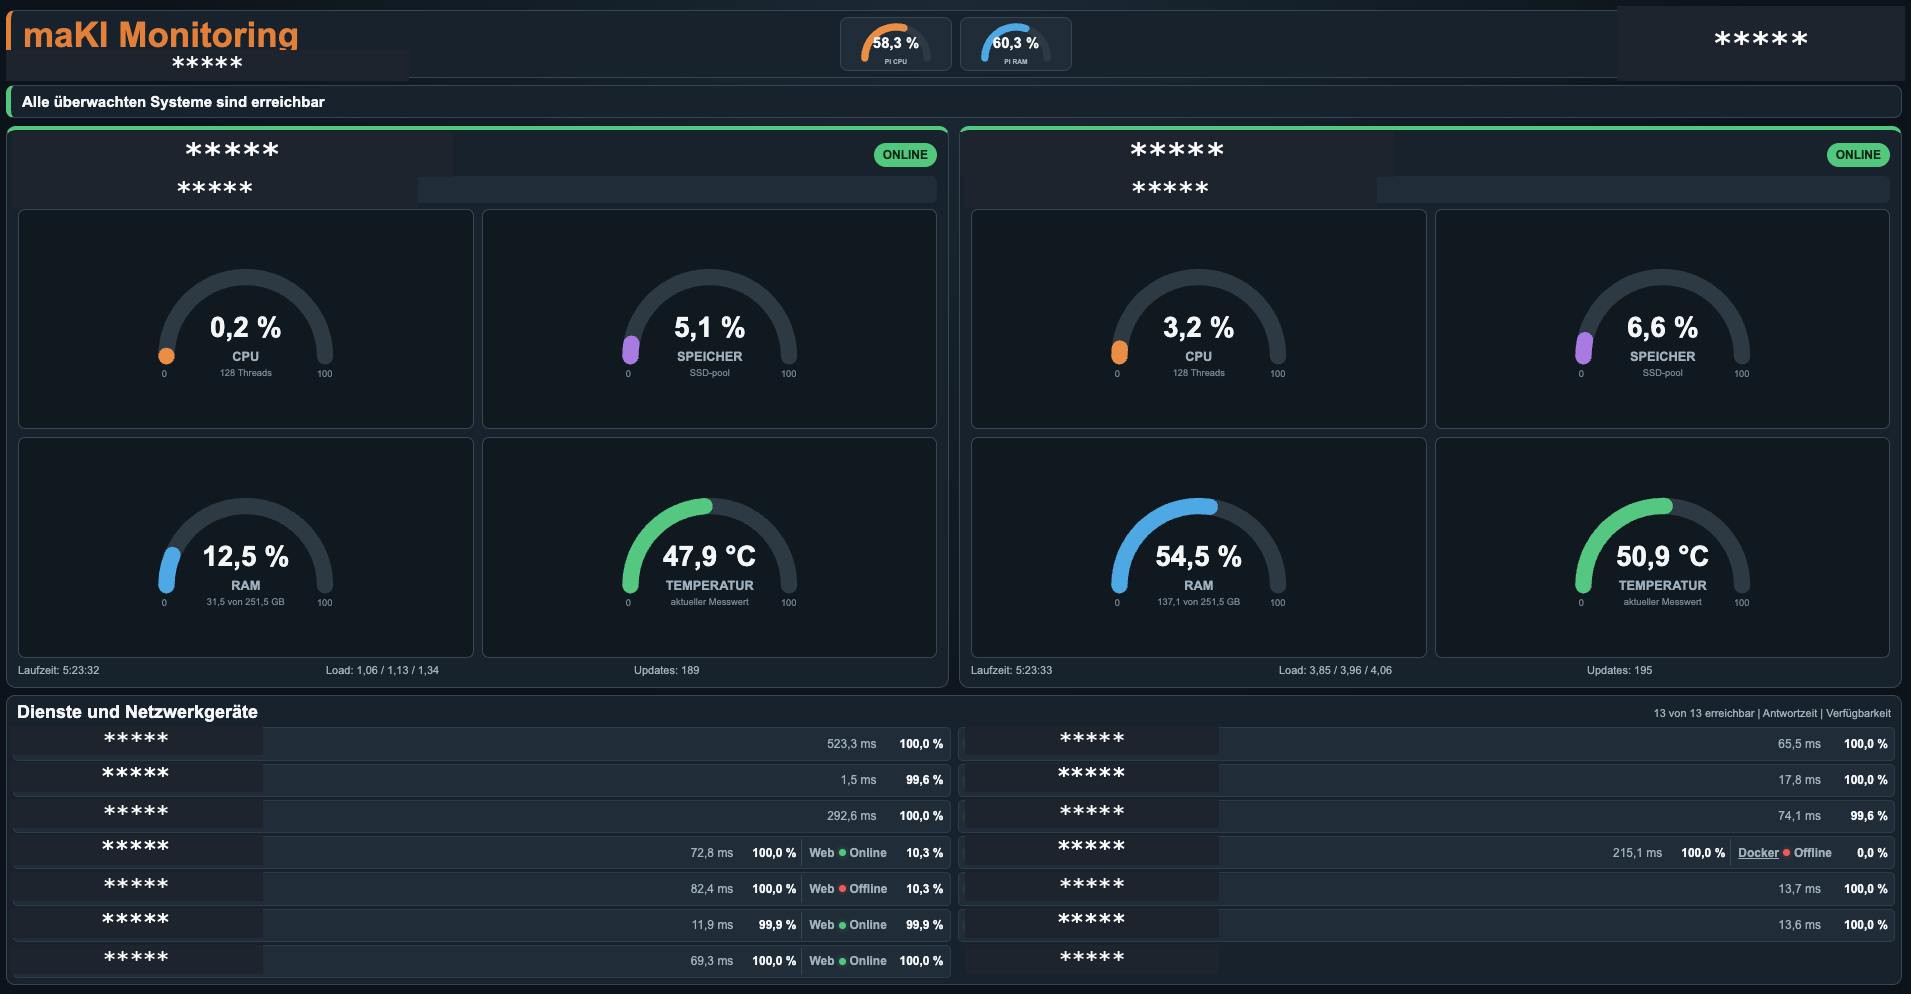
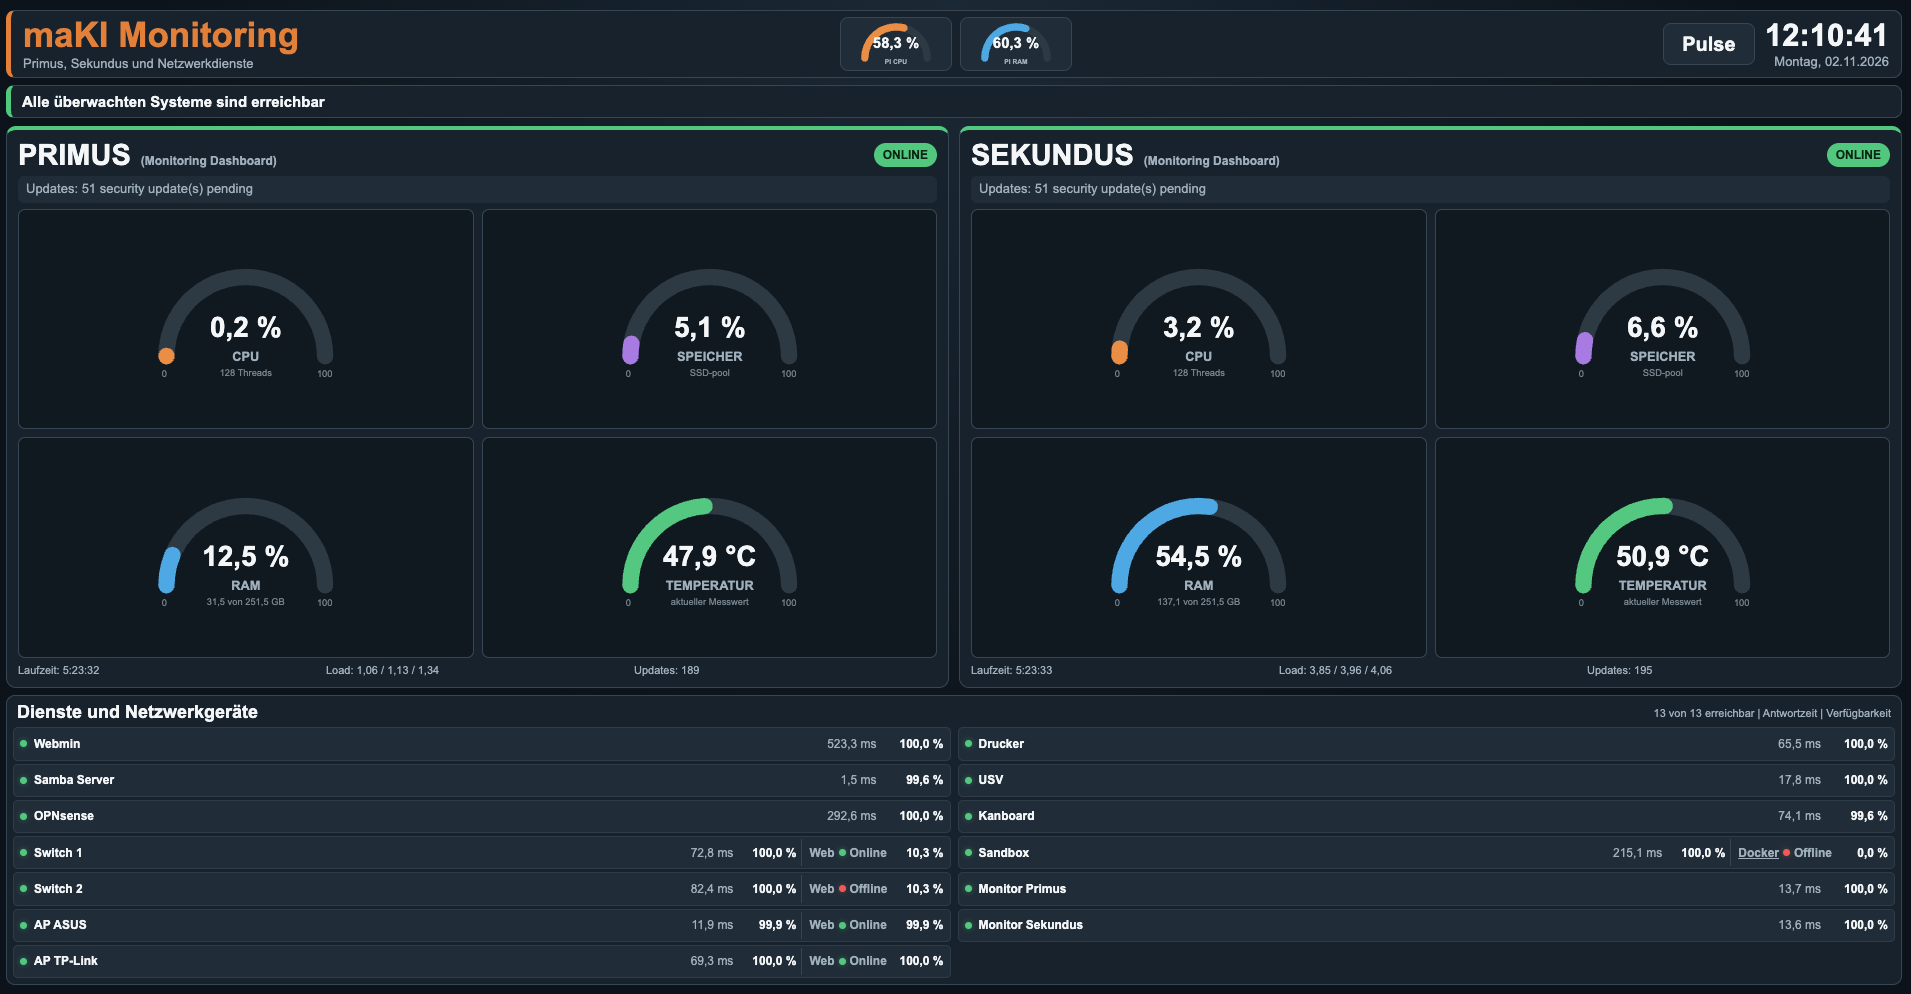
Freigegebene Projekte in ihrer Originalansicht zeigen

diff --git a/index.html b/index.html
@@ -270,10 +270,10 @@ body.n-dialog-open{overflow:hidden}
 <aside class="n-idcard" aria-label="Technisches Kurzprofil"><h2>Technisches Kurzprofil</h2><p>Hardware und Netzwerke<br>Linux und Serverbetrieb<br>Technische Dokumentation</p><div class="n-term"><span class="n-k">Debian-Homeserver</span><br>IP-Adresse: <span aria-label="nicht veröffentlicht">*****</span></div></aside></section>
 <section class="n-section" id="praxis" aria-labelledby="ph"><div class="n-wrap n-sh"><div><p class="n-eyebrow">Praxisphase</p><h2 id="ph">Ein Betrieb, drei Blöcke</h2></div><p>Ich suche einen Betrieb, in dem ich alle drei Praxisblöcke meiner Umschulung zum IT-Systemelektroniker absolvieren kann. Dazwischen liegen die vorgesehenen Urlaubszeiten.</p></div></section>
 <section class="n-section" id="projekte" aria-labelledby="pt"><div class="n-wrap"><div class="n-sh"><div><p class="n-eyebrow">Projektportfolio</p><h2 id="pt">Projekte aus Unterricht und Freizeit</h2></div></div><div class="n-projects"><article class="n-pj"><figure class="public-figure"><a class="public-photo" href="multitool.png" aria-label="Nachrichtenansicht des Multitools mit Themenfeed und Modulnavigation. Großansicht öffnen."><img src="multitool.png" alt="Nachrichtenansicht des Multitools mit Themenfeed und Modulnavigation."></a><figcaption>Nachrichtenansicht des Multitools mit Themenfeed und Modulnavigation. <a href="multitool.png">Großansicht</a></figcaption></figure><div class="n-pjb"><span class="n-tag">Projekt <span class="n-pjno">01</span></span><h3>Multitool</h3><p class="n-pj-sum">Informations- und Verwaltungsdashboard mit IT-Nachrichten, Wetter, Schulterminen, Bewerber-Lounge und Dokumentationsarchiv.</p><p class="n-tech">Debian · Proxmox · Docker Compose · Flask · Caddy</p></div></article>
-<article class="n-pj"><figure class="public-figure"><a class="public-photo" href="monitoring.png" aria-label="Monitoring-Dashboard mit zwei Serveransichten, Auslastung und Dienststatus. Interne Kennungen sind verdeckt. Großansicht öffnen."><img src="monitoring.png" alt="Monitoring-Dashboard mit zwei Serveransichten, Auslastung und Dienststatus. Interne Kennungen sind verdeckt."></a><figcaption>Monitoring-Dashboard mit zwei Serveransichten, Auslastung und Dienststatus. Interne Kennungen sind verdeckt. <a href="monitoring.png">Großansicht</a></figcaption></figure><div class="n-pjb"><span class="n-tag">Projekt <span class="n-pjno">02</span></span><h3>maKI Monitoring</h3><p class="n-pj-sum">Überwachung zweier Proxmox-Server und weiterer Netzwerkdienste – umgesetzt für einen Raspberry Pi 2 mit 1 GB RAM.</p><p class="n-tech">Raspberry Pi 2 · FastAPI · Nginx · SQLite · Docker Compose</p></div></article>
-<article class="n-pj"><figure class="public-figure"><a class="public-photo" href="usv.png" aria-label="Serverrack mit USV, Servereinschüben und Verkabelung. Geräte- und Netzwerketiketten sind verdeckt. Großansicht öffnen."><img src="usv.png" alt="Serverrack mit USV, Servereinschüben und Verkabelung. Geräte- und Netzwerketiketten sind verdeckt."></a><figcaption>Serverrack mit USV, Servereinschüben und Verkabelung. Geräte- und Netzwerketiketten sind verdeckt. <a href="usv.png">Großansicht</a></figcaption></figure><div class="n-pjb"><span class="n-tag">Projekt <span class="n-pjno">03</span></span><h3>USV im Serverprojekt</h3><p class="n-pj-sum">Mitarbeit im USV-Team: Stromversorgung absichern und kontrolliertes Herunterfahren der Server dokumentieren. Proxmox ist ergänzender Teamkontext.</p><p class="n-tech">CyberPower-USV · PowerPanel Business · Linux · SSH · Shell</p></div></article>
+<article class="n-pj"><figure class="public-figure"><a class="public-photo" href="monitoring.png" aria-label="Monitoring-Dashboard mit zwei Serveransichten, Auslastung und Dienststatus. Großansicht öffnen."><img src="monitoring.png" alt="Monitoring-Dashboard mit zwei Serveransichten, Auslastung und Dienststatus."></a><figcaption>Monitoring-Dashboard mit zwei Serveransichten, Auslastung und Dienststatus. <a href="monitoring.png">Großansicht</a></figcaption></figure><div class="n-pjb"><span class="n-tag">Projekt <span class="n-pjno">02</span></span><h3>maKI Monitoring</h3><p class="n-pj-sum">Überwachung zweier Proxmox-Server und weiterer Netzwerkdienste – umgesetzt für einen Raspberry Pi 2 mit 1 GB RAM.</p><p class="n-tech">Raspberry Pi 2 · FastAPI · Nginx · SQLite · Docker Compose</p></div></article>
+<article class="n-pj"><figure class="public-figure"><a class="public-photo" href="usv.png" aria-label="Serverrack mit USV, Servereinschüben und Verkabelung. Großansicht öffnen."><img src="usv.png" alt="Serverrack mit USV, Servereinschüben und Verkabelung."></a><figcaption>Serverrack mit USV, Servereinschüben und Verkabelung. <a href="usv.png">Großansicht</a></figcaption></figure><div class="n-pjb"><span class="n-tag">Projekt <span class="n-pjno">03</span></span><h3>USV im Serverprojekt</h3><p class="n-pj-sum">Mitarbeit im USV-Team: Stromversorgung absichern und kontrolliertes Herunterfahren der Server dokumentieren. Proxmox ist ergänzender Teamkontext.</p><p class="n-tech">CyberPower-USV · PowerPanel Business · Linux · SSH · Shell</p></div></article>
 <article class="n-pj"><figure class="public-figure"><a class="public-photo" href="tafelstream.png" aria-label="Tafelstream-Oberfläche mit leerem Warteraum und den verfügbaren Anzeigeoptionen. Großansicht öffnen."><img src="tafelstream.png" alt="Tafelstream-Oberfläche mit leerem Warteraum und den verfügbaren Anzeigeoptionen."></a><figcaption>Tafelstream-Oberfläche mit leerem Warteraum und den verfügbaren Anzeigeoptionen. <a href="tafelstream.png">Großansicht</a></figcaption></figure><div class="n-pjb"><span class="n-tag">Projekt <span class="n-pjno">04</span></span><h3>Tafelstream</h3><p class="n-pj-sum">Konzept für die Übertragung digitaler Tafelinhalte im lokalen Netzwerk: USB-Capture und FFmpeg über MediaMTX bis zur Wiedergabe im Browser.</p><p class="n-tech">Ubuntu Server · FFmpeg · MediaMTX · WebRTC · Docker Compose</p></div></article>
 <article class="n-pj"><figure class="public-figure"><a class="public-photo" href="datenrettung.png" aria-label="Vollständige Statusausgabe von GNU ddrescue während der sektorweisen Datenrettung. Großansicht öffnen."><img src="datenrettung.png" alt="Vollständige Statusausgabe von GNU ddrescue während der sektorweisen Datenrettung."></a><figcaption>Vollständige Statusausgabe von GNU ddrescue während der sektorweisen Datenrettung. <a href="datenrettung.png">Großansicht</a></figcaption></figure><div class="n-pjb"><span class="n-tag">Projekt <span class="n-pjno">05</span></span><h3>USB-Datenrettung unter Proxmox</h3><p class="n-pj-sum">Mit vorhandener Proxmox-Infrastruktur eine wiederaufnehmbare Linux-Rettungsumgebung aufgebaut und eingesetzt: sektorweise Sicherung einer beschädigten 2-TB-USB-Festplatte auf verschlüsselten Zielspeicher.</p><p class="n-tech">Proxmox VE · SystemRescue · GNU ddrescue · LUKS2 · Bash</p></div></article>
 <article class="n-pj"><figure class="public-figure"><a class="public-photo" href="homeserver.png" aria-label="Der Mini-PC in geschlossener und geöffneter Ansicht. Die Aufkleber der Speichermodule sind verdeckt. Großansicht öffnen."><img src="homeserver.png" alt="Der Mini-PC in geschlossener und geöffneter Ansicht. Die Aufkleber der Speichermodule sind verdeckt."></a><figcaption>Der Mini-PC in geschlossener und geöffneter Ansicht. Die Aufkleber der Speichermodule sind verdeckt. <a href="homeserver.png">Großansicht</a></figcaption></figure><div class="n-pjb"><span class="n-tag">Projekt <span class="n-pjno">06</span></span><h3>Debian-Homeserver</h3><p class="n-pj-sum">Privat beschäftige ich mich mit einem Debian-Server und Diensten in Docker-Containern. So probiere ich technische Themen außerhalb des Unterrichts aus.</p><p class="n-tech">Debian · Docker · Fernzugriff</p></div></article>
-<article class="n-pj"><figure class="public-figure"><a class="public-photo" href="leitstand.png" aria-label="Statistikansicht des Smart-Home-Leitstands R4 mit Leistungsverlauf und Verbrauchsbalken. Die Werte sind Demodaten. Großansicht öffnen."><img src="leitstand.png" alt="Statistikansicht des Smart-Home-Leitstands R4 mit Leistungsverlauf und Verbrauchsbalken. Die Werte sind Demodaten."></a><figcaption>Statistikansicht des Smart-Home-Leitstands R4 mit Leistungsverlauf und Verbrauchsbalken. Die Werte sind Demodaten. <a href="leitstand.png">Großansicht</a></figcaption></figure><div class="n-pjb"><span class="n-tag">Projekt <span class="n-pjno">07</span></span><h3>Smart-Home-Leitstand R4</h3><p class="n-pj-sum">Herstellerübergreifende Smart-Home-Zentrale: Home Assistant unter Docker auf einem Mini-PC und ein Leitstand für Heizung, Raumklima und Stromverbrauch.</p><p class="n-tech">Home Assistant · Docker · Bluetooth · Tailscale · Debian</p></div><div class="downloads"><strong>Technische Unterlagen</strong><span>Gekürzte öffentliche Textfassungen (PDF)</span><a href="projektbericht.pdf">Projektdokumentation</a><a href="betrieb.pdf">Kundendokumentation</a><a href="bedienung.pdf">Bedienungsanleitung</a></div></article></div></div></section></main>
+<article class="n-pj"><figure class="public-figure"><a class="public-photo" href="leitstand.png" aria-label="Übersicht des Smart-Home-Leitstands R4 mit Raumtemperaturen, Energieverbrauch und Meldungen. Die Werte sind Demodaten. Großansicht öffnen."><img src="leitstand.png" alt="Übersicht des Smart-Home-Leitstands R4 mit Raumtemperaturen, Energieverbrauch und Meldungen. Die Werte sind Demodaten."></a><figcaption>Übersicht des Smart-Home-Leitstands R4 mit Raumtemperaturen, Energieverbrauch und Meldungen. Die Werte sind Demodaten. <a href="leitstand.png">Großansicht</a></figcaption></figure><div class="n-pjb"><span class="n-tag">Projekt <span class="n-pjno">07</span></span><h3>Smart-Home-Leitstand R4</h3><p class="n-pj-sum">Herstellerübergreifende Smart-Home-Zentrale: Home Assistant unter Docker auf einem Mini-PC und ein Leitstand für Heizung, Raumklima und Stromverbrauch.</p><p class="n-tech">Home Assistant · Docker · Bluetooth · Tailscale · Debian</p></div><div class="downloads"><strong>Technische Unterlagen</strong><span>Gekürzte öffentliche Textfassungen (PDF)</span><a href="projektbericht.pdf">Projektdokumentation</a><a href="betrieb.pdf">Kundendokumentation</a><a href="bedienung.pdf">Bedienungsanleitung</a></div></article></div></div></section></main>
 <footer class="n-footer n-wrap"><span>Bewerbungsportfolio · IT-Systemelektronik</span><a href="#start">Zum Seitenanfang</a></footer></body></html>
